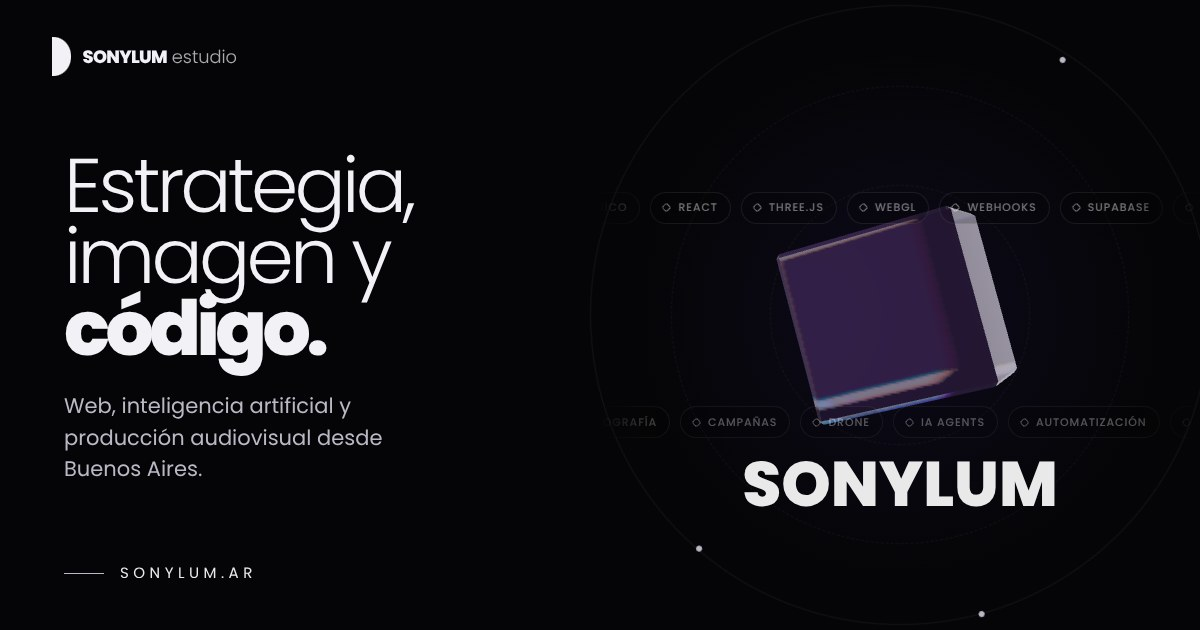
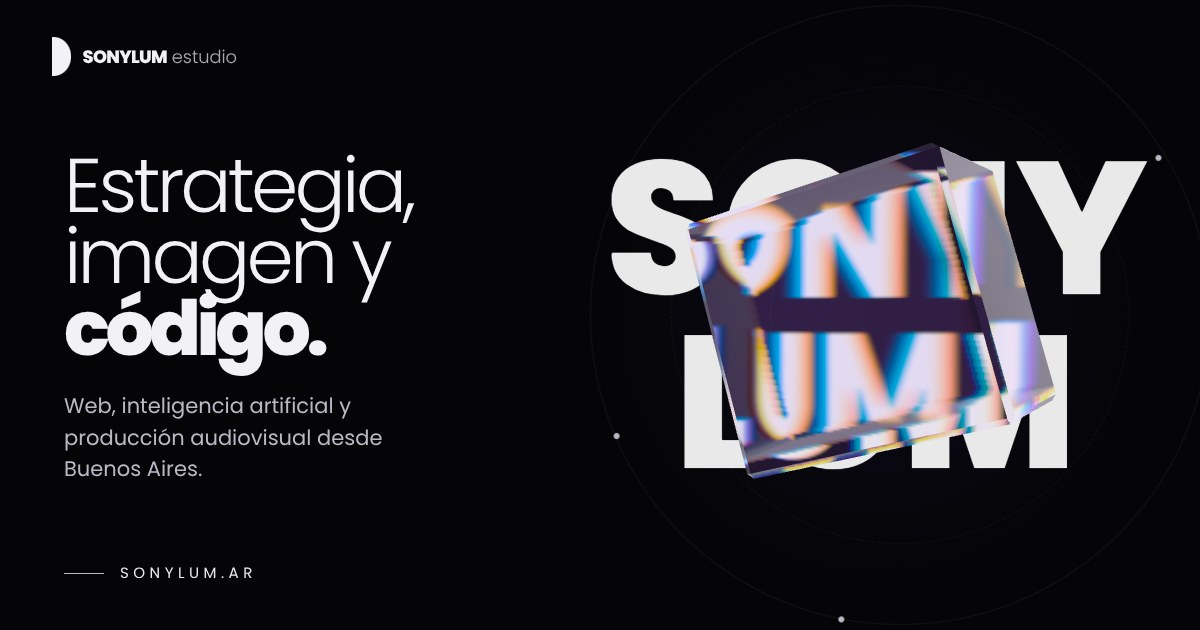
Sonylum: imagen OG con el cubo más grande y transparente, refractando la marca
Claude-Session: https://claude.ai/code/session_01EpXW3NitYgHYDgEWcHXGXp

Changed region(s): [[0.4933, 0.2111, 0.9558, 0.8143]]

diff --git a/web/sonylum/index.html b/web/sonylum/index.html
@@ -17,7 +17,7 @@
 <meta property="og:image:type" content="image/jpeg">
 <meta property="og:image:width" content="1200">
 <meta property="og:image:height" content="630">
-<meta property="og:image:alt" content="Cubo de vidrio violeta de SONYLUM junto al texto Estrategia, imagen y código.">
+<meta property="og:image:alt" content="Cubo de vidrio de SONYLUM refractando la palabra SONYLUM, junto al texto Estrategia, imagen y código.">
 <meta name="twitter:card" content="summary_large_image">
 <meta name="twitter:title" content="SONYLUM® Estudio · Estrategia, imagen y código">
 <meta name="twitter:description" content="Web, inteligencia artificial y producción audiovisual desde Buenos Aires.">

diff --git a/web/sonylum/cube.js b/web/sonylum/cube.js
@@ -188,6 +188,7 @@ if (renderer) {
 
   function placement() {
     const W = innerWidth, H = innerHeight;
+    if (window.sonyPlace) return window.sonyPlace(W, H);   // solo para generar la imagen OG
     return DESKTOP || W >= 1024 ? { x: 0.75, y: 0.5, size: Math.min(H * 0.27, W * 0.16), font: Math.min(H * 0.1, W * 0.06), maxW: W * 0.4, below: H * 0.17 + 40 }
                                 : { x: 0.5, y: window.sonyHeroY || 0.25, size: Math.min(H * 0.2, W * 0.42), font: Math.min(H * 0.12, W * 0.19), maxW: W * 0.76 };
   }
